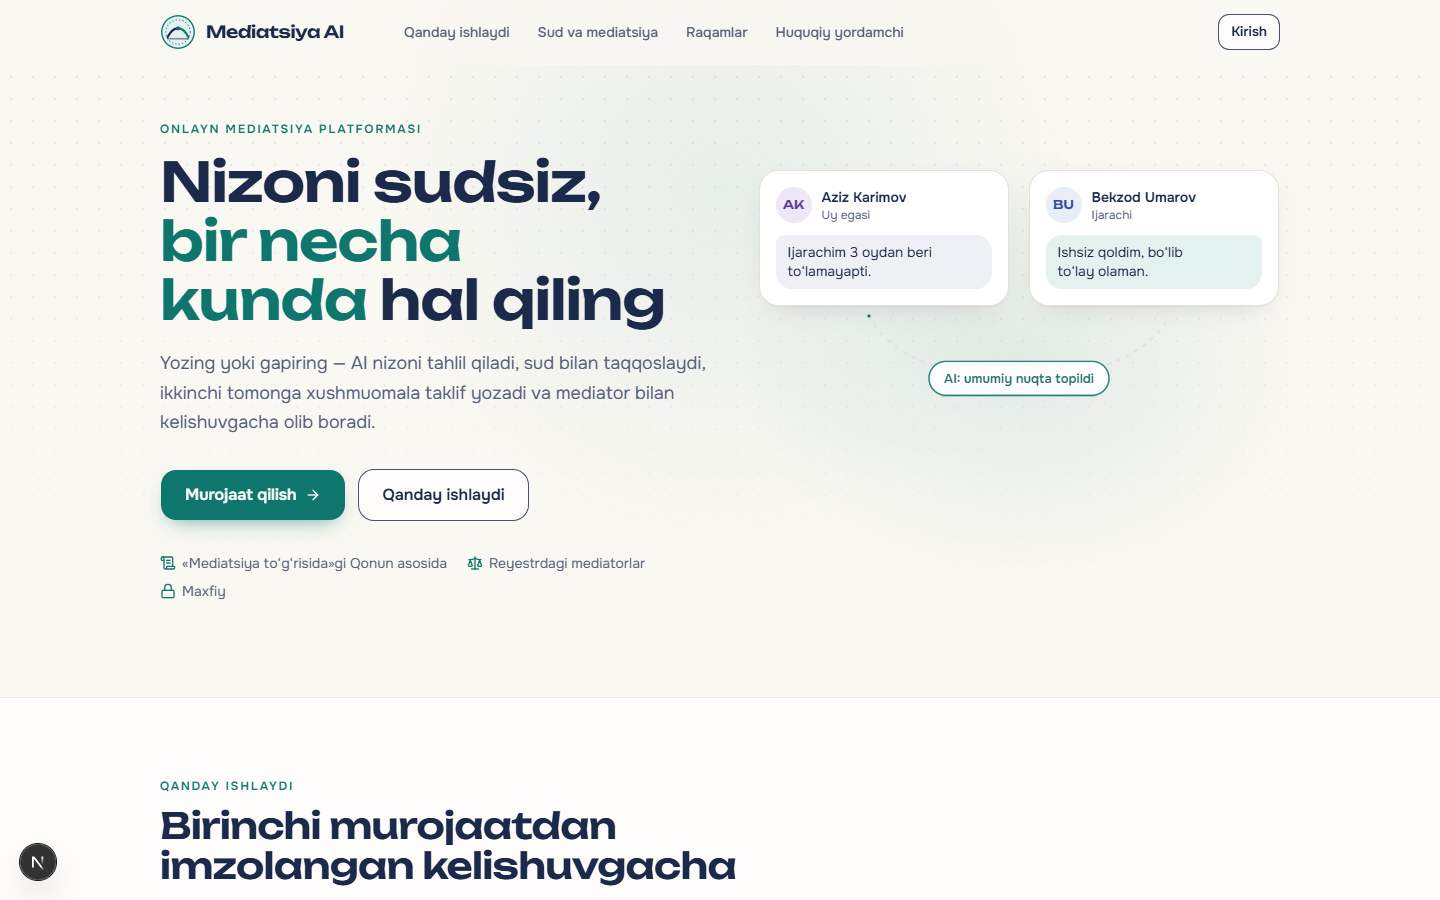
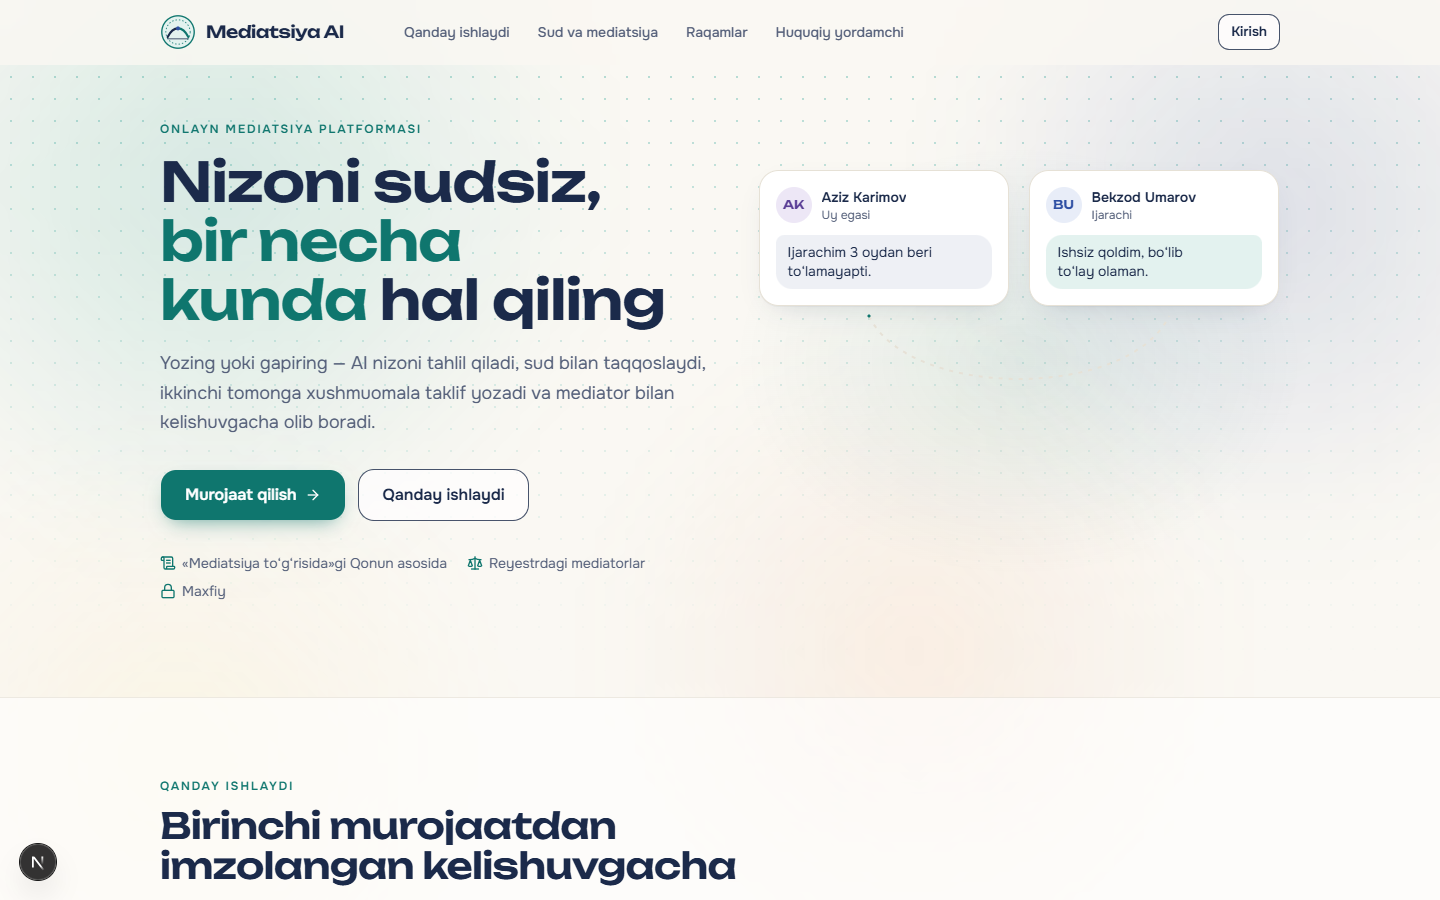
feat(web): more visible, colourful page backgrounds

Changed region(s): [[0.0625, 0.0622, 0.25, 0.3733], [0.6562, 0.3733, 0.7812, 0.4667], [0.875, 0.1867, 0.9375, 0.28]]

diff --git a/web/src/components/brand/page-backdrop.tsx b/web/src/components/brand/page-backdrop.tsx
@@ -38,47 +38,57 @@ function useFon(): Fon {
   return stored && "abcd".includes(stored) ? (stored as Fon) : DEFAULT;
 }
 
+/** Soft colour field shared by all variants: teal, stamp blue and a warm apricot. */
+function Glows({ strong = false }: { strong?: boolean }) {
+  const k = strong ? 1 : 0.75;
+  return (
+    <>
+      <div className="absolute -top-48 -left-40 size-[760px] rounded-full blur-2xl" style={{ background: `radial-gradient(closest-side, rgb(13 148 136 / ${0.22 * k}), transparent)` }} />
+      <div className="absolute -top-32 right-[-12%] size-[680px] rounded-full blur-2xl" style={{ background: `radial-gradient(closest-side, rgb(46 79 163 / ${0.2 * k}), transparent)` }} />
+      <div className="absolute top-[38%] left-[42%] size-[620px] rounded-full blur-2xl" style={{ background: `radial-gradient(closest-side, rgb(245 166 120 / ${0.18 * k}), transparent)` }} />
+      <div className="absolute bottom-[-20%] left-[-10%] size-[640px] rounded-full blur-2xl" style={{ background: `radial-gradient(closest-side, rgb(255 214 120 / ${0.16 * k}), transparent)` }} />
+    </>
+  );
+}
+
 function Layer() {
   const fon = useFon();
   return (
     <div aria-hidden className="pointer-events-none fixed inset-0 -z-10 overflow-hidden" data-fon={fon}>
       {/* a: clean paper with two soft glows */}
-      {fon === "a" && (
-        <>
-          <div className="absolute -top-40 -left-40 size-[620px] rounded-full bg-[radial-gradient(closest-side,rgb(15_118_110/0.10),transparent)]" />
-          <div className="absolute -top-24 right-[-10%] size-[560px] rounded-full bg-[radial-gradient(closest-side,rgb(46_79_163/0.08),transparent)]" />
-        </>
-      )}
+      {fon === "a" && <Glows strong />}
       {/* b: fine dot grid fading downward */}
       {fon === "b" && (
         <>
           <div
             className="absolute inset-0"
             style={{
-              backgroundImage: "radial-gradient(rgb(27 42 74 / 0.10) 1px, transparent 1.2px)",
+              backgroundImage: "radial-gradient(rgb(13 148 136 / 0.32) 1.1px, transparent 1.4px)",
               backgroundSize: "22px 22px",
               maskImage: "linear-gradient(to bottom, black, transparent 75%)",
               WebkitMaskImage: "linear-gradient(to bottom, black, transparent 75%)",
             }}
           />
-          <div className="absolute -top-40 left-1/2 size-[700px] -translate-x-1/2 rounded-full bg-[radial-gradient(closest-side,rgb(15_118_110/0.08),transparent)]" />
+          <Glows />
         </>
       )}
       {/* c: a few wide arcs rising from the bottom — the bridge, very quiet */}
+      {fon === "c" && <Glows />}
       {fon === "c" && (
         <svg className="absolute inset-x-0 bottom-0 h-[70vh] w-full" viewBox="0 0 1440 700" preserveAspectRatio="xMidYMax slice">
           {[260, 420, 580, 740, 900].map((r, i) => (
-            <circle key={r} cx={720} cy={900} r={r} fill="none" stroke={i % 2 ? "var(--seal)" : "var(--accord)"} strokeOpacity={0.09} strokeWidth={1.2} />
+            <circle key={r} cx={720} cy={900} r={r} fill="none" stroke={i % 2 ? "var(--seal)" : "#0d9488"} strokeOpacity={0.22} strokeWidth={1.6} />
           ))}
         </svg>
       )}
       {/* d: Uzbek girih lattice, very faint, fading downward */}
+      {fon === "d" && <Glows />}
       {fon === "d" && (
         <div
           className="absolute inset-0"
           style={{ maskImage: "linear-gradient(to bottom, black, transparent 80%)", WebkitMaskImage: "linear-gradient(to bottom, black, transparent 80%)" }}
         >
-          <GirihPattern tone="dark" id="girih-page" className="h-full w-full" />
+          <GirihPattern tone="teal" id="girih-page" className="h-full w-full" />
         </div>
       )}
     </div>

diff --git a/web/src/components/brand/backdrop.tsx b/web/src/components/brand/backdrop.tsx
@@ -85,7 +85,7 @@ export function GuillocheWaves({ className }: { className?: string }) {
  * Girih lattice: an 8-point star (two squares at 45°) per tile, joined to its neighbours,
  * the classic Central Asian "dilduz" grid. `tone` sets the line colour.
  */
-export function GirihPattern({ className, tone = "light", id = "girih" }: { className?: string; tone?: "light" | "dark"; id?: string }) {
+export function GirihPattern({ className, tone = "light", id = "girih" }: { className?: string; tone?: "light" | "dark" | "teal"; id?: string }) {
   const s = 72; // tile
   const c = s / 2;
   const r = 15; // star radius
@@ -94,7 +94,7 @@ export function GirihPattern({ className, tone = "light", id = "girih" }: { clas
       const a = ((i * 90 + rot) * Math.PI) / 180;
       return `${round(c + r * Math.cos(a))},${round(c + r * Math.sin(a))}`;
     }).join(" ");
-  const stroke = tone === "light" ? "rgb(255 255 255 / 0.09)" : "rgb(27 42 74 / 0.07)";
+  const stroke = tone === "light" ? "rgb(255 255 255 / 0.09)" : tone === "teal" ? "rgb(13 148 136 / 0.2)" : "rgb(27 42 74 / 0.07)";
   return (
     <svg className={cn("pointer-events-none select-none", className)} aria-hidden>
       <defs>
